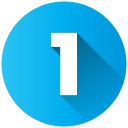
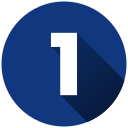
Alfa Laval blue theme

diff --git a/VisuaLite/modules/gui.py b/VisuaLite/modules/gui.py
@@ -37,7 +37,8 @@ TIMES = ['00:00', '01:00', '02:00', '03:00', '04:00', '05:00',
 
 #Custom Tkinter theme
 ctk.set_appearance_mode("dark")
-ctk.set_default_color_theme("dark-blue")
+#ctk.set_default_color_theme("dark-blue")
+ctk.set_default_color_theme(os.path.join(RESOURCES, "al-blue.json"))
 
 #--------------------------------------------------------------------- Frames Classes
 class BreadcrumbFrame(ctk.CTkFrame):
